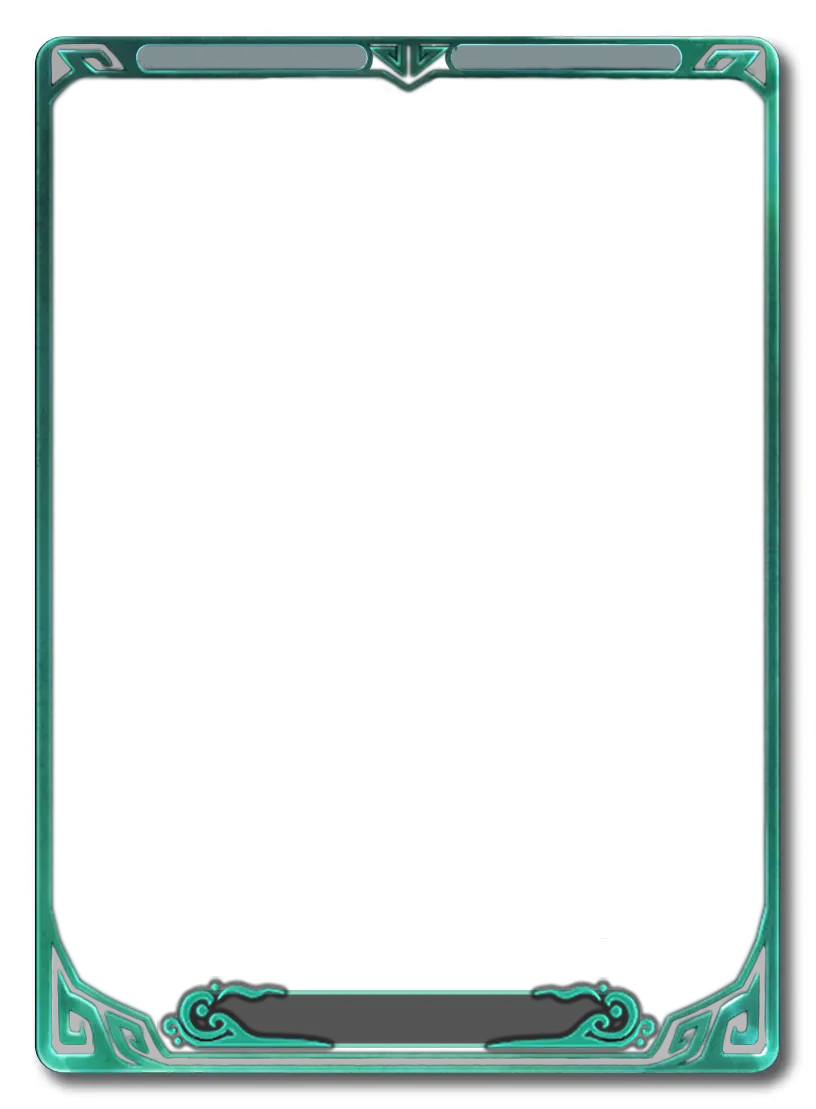
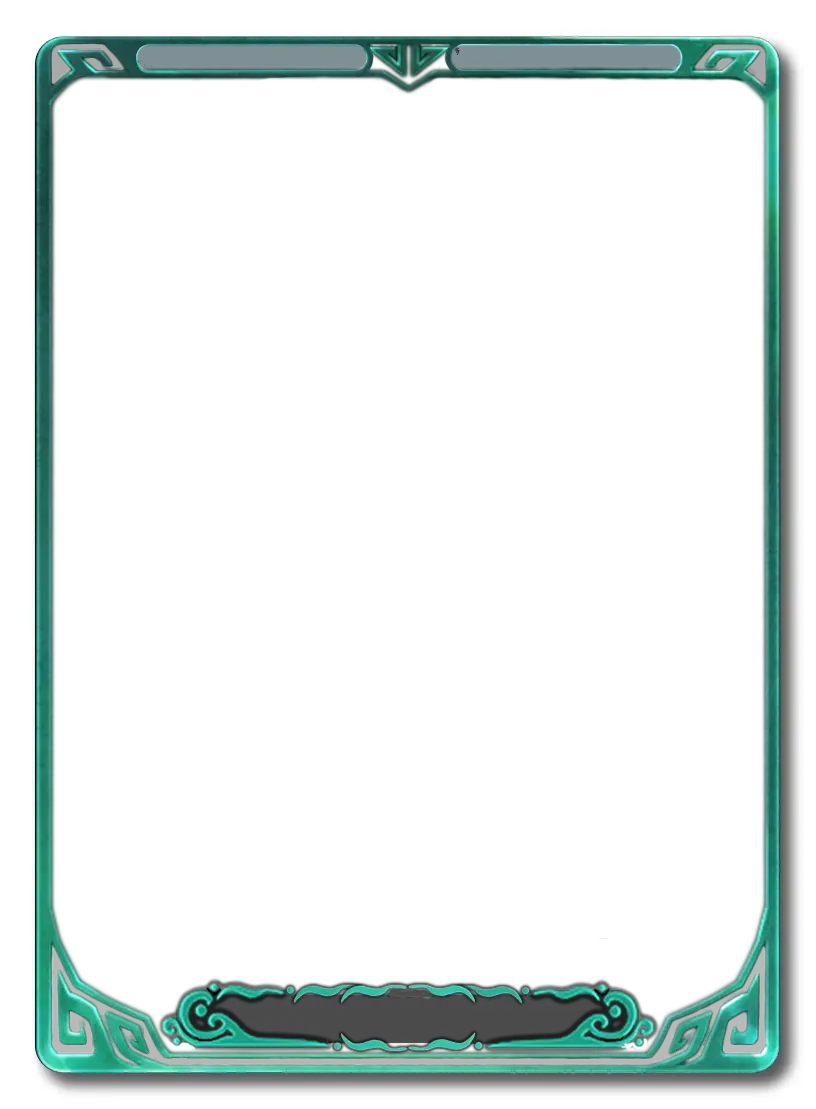
更换素材图

Changed region(s): [[0.337, 0.8584, 0.674, 0.9504], [0.7047, 0.8891, 0.8272, 0.9504], [0.1838, 0.8891, 0.337, 0.9504]]

diff --git a/src/App.vue b/src/App.vue
@@ -149,6 +149,7 @@
           <div id="card-bg" :style="{ backgroundImage: `url(${images.bgImage})` }"></div>
           <div id="card-frame"></div>
           <div id="card-fg" :style="{ backgroundImage: `url(${images.fgImage})` }">
+            <div id="max-cards-bg"></div>
             <div id="faction" :style="{ backgroundImage: `url(${images.factionImage})` }"></div>
             <div class="name name2" :style="nameStyle" v-if="form.name.length == 2">{{ form.name || '姓名' }}</div>
             <div class="name name3" :style="nameStyle" v-else>{{ form.name || '' }}</div>
@@ -177,7 +178,7 @@ import { ref, reactive, computed, watch, onMounted } from 'vue';
 import domtoimage from 'dom-to-image';
 import ImageCropper from './components/ImageCropper.vue';
 import jingke from '@/assets/ui_s1_yuanhua_jingke.webp'
-import yan from '@/assets/yan.png'
+import yan from '@/assets/yan.webp'
 import { ElMessage } from 'element-plus';
 import { View } from '@element-plus/icons-vue'
 import { useElementVisibility } from './useElementVisibility';
@@ -275,7 +276,7 @@ onMounted(() => {
 // 2. 数据变化时：实时写入本地
 watch(form, (newVal) => {
   if (images !== null && !images.customFaction) {
-    images.factionImage = new URL(`./assets/${newVal.faction}.png`, import.meta.url).href
+    images.factionImage = new URL(`./assets/${newVal.faction}.webp`, import.meta.url).href
   }
   localStorage.setItem('card_data', JSON.stringify(newVal));
 }, { deep: true }); // deep: true 确保能监听到对象内部属性的变化
@@ -283,6 +284,8 @@ watch(form, (newVal) => {
 const resetForm = () => {
   localStorage.removeItem('card_data')
   Object.assign(form, defaultForm);
+
+  images.fgImage = ''
 }
 
 const cardRef = ref(null);
@@ -475,6 +478,11 @@ const skillDot = (skill) => {
   background-size: contain;
 }
 
+#max-cards-bg {
+  background-image: url("assets/max-cards.webp");
+  background-size: contain;
+}
+
 #card-bg {
   /*
   尺寸：69 / 94
@@ -540,7 +548,8 @@ const skillDot = (skill) => {
   transform: translateX(-50%);
 }
 
-#faction {
+#faction,
+#max-cards-bg {
   box-sizing: border-box;
   background-size: contain;
   background-origin: content-box;
@@ -663,8 +672,8 @@ const skillDot = (skill) => {
 
 .hp-point {
   display: inline-block;
-  height: 4.5cqw;
-  width: 4.5cqw;
+  height: 4cqw;
+  width: 4cqw;
   background: url("assets/hp.png");
   background-repeat: no-repeat;
   background-size: contain;